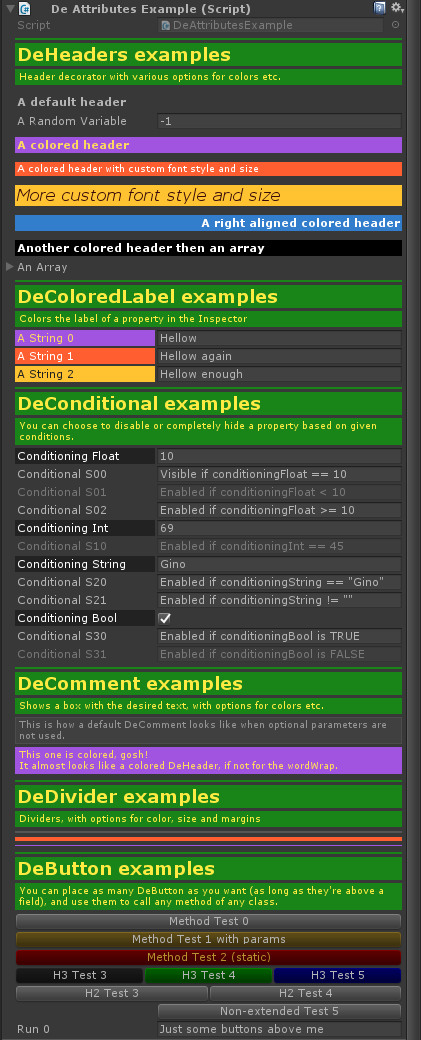
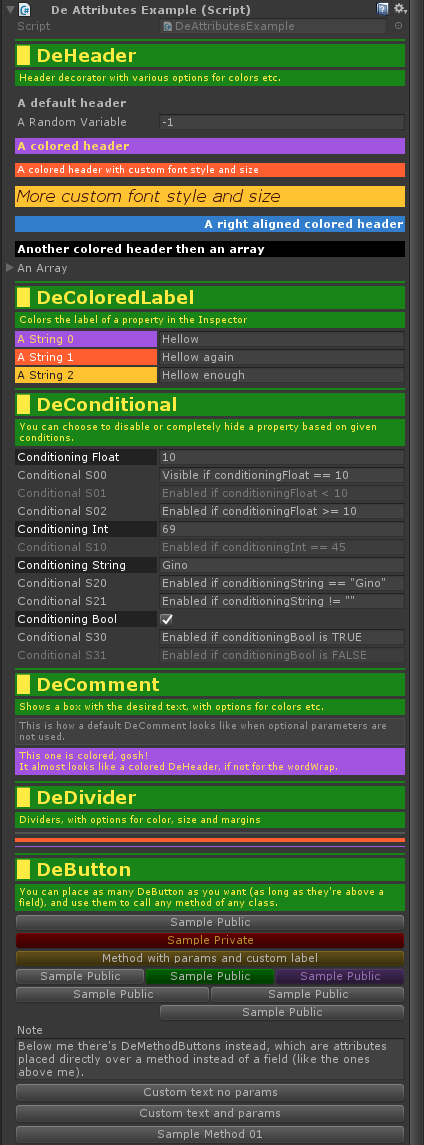
minor

diff --git a/DemiLib.UnityTests.Unity5/Assets/_Examples/DeAttributes/DeAttributesExample.cs b/DemiLib.UnityTests.Unity5/Assets/_Examples/DeAttributes/DeAttributesExample.cs
@@ -96,7 +96,8 @@ public class DeAttributesExample : MonoBehaviour
     [DeButton(DePosition.HHalfLeft, typeof(DeAttributesExample), "SamplePublic")]
     [DeButton(DePosition.HHalfRight, typeof(DeAttributesExample), "SamplePublic")]
     [DeButton(DePosition.HDefault, typeof(DeAttributesExample), "SamplePublic")]
-    public string run0 = "Below me there's DeMethodButtons instead";
+    [TextArea]
+    public string note = "Below me there's DeMethodButtons instead, which are attributes placed directly over a method instead of a field (like the ones above me).";
 
     public void SamplePublic()
     {
